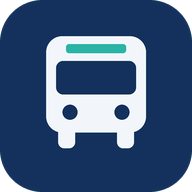
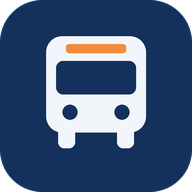
Add files via upload

Changed region(s): [[0.3438, 0.2188, 0.6562, 0.2812]]

diff --git a/css/app.css b/css/app.css
@@ -42,14 +42,15 @@
   --band-soft: #2a4a78;
   --shuttle: #1f4e8c;
   --shuttle-tint: #e3ecf8;
-  --iett: #0a766c;
-  --iett-tint: #dcf1ee;
-  --cancel: #b42a22;
+  --iett: #b5400b;
+  --iett-tint: #fbe7dc;
+  --cancel: #9f1d1d;
   --cancel-tint: #fbe6e4;
   --warn-ink: #6e4600;
   --warn-tint: #fdf1d3;
   --focus: #2a6fdb;
-  --star: #c48600;
+  --star: #13315c;
+  --ok: #1e7d3c;
   --sign: "Barlow Condensed", "Arial Narrow", "Roboto Condensed", system-ui, sans-serif;
   --text: system-ui, -apple-system, "Segoe UI", Roboto, "Helvetica Neue", Arial, sans-serif;
   color-scheme: light dark;
@@ -67,14 +68,15 @@
     --band-soft: #1d3554;
     --shuttle: #8ab6ef;
     --shuttle-tint: #1a2c45;
-    --iett: #5fcfc1;
-    --iett-tint: #12332f;
-    --cancel: #ff8a80;
+    --iett: #ffa15a;
+    --iett-tint: #3a2216;
+    --cancel: #ff6e7f;
     --cancel-tint: #3a1a18;
     --warn-ink: #ffd88a;
     --warn-tint: #352a10;
     --focus: #7fb0ff;
-    --star: #f2c14e;
+    --star: #e6edf5;
+    --ok: #6fd08f;
   }
 }
 
@@ -335,7 +337,7 @@ body[data-tab="info"] .dir, body[data-tab="debug"] .dir { display: none; }
 .dbg h3 { margin: 12px 0 6px; font-size: .95rem; }
 .dbg p { margin: 0 0 8px; }
 .dbg .muted, .muted { color: var(--muted); font-size: .88rem; }
-.dbg .ok, .ok { color: var(--iett); }
+.dbg .ok, .ok { color: var(--ok); }
 .dbg .bad, .bad { color: var(--cancel); }
 .dbg-form { display: grid; gap: 10px; margin: 10px 0; }
 .dbg-form label { display: grid; gap: 4px; font-size: .9rem; }
@@ -351,7 +353,7 @@ body[data-tab="info"] .dir, body[data-tab="debug"] .dir { display: none; }
 .presets .chip-btn span { font: 400 .78rem/1.3 var(--text); color: var(--muted); }
 .dbg-table { width: 100%; border-collapse: collapse; font-size: .85rem; margin: 6px 0 10px; }
 .dbg-table th, .dbg-table td { text-align: left; padding: 5px 6px; border-bottom: 1px solid var(--line); vertical-align: top; }
-.dbg-table tr.ok td:first-child { color: var(--iett); font-weight: 600; }
+.dbg-table tr.ok td:first-child { color: var(--ok); font-weight: 600; }
 .dbg-table tr.bad td:first-child { color: var(--cancel); font-weight: 600; }
 .dbg-table pre { white-space: pre-wrap; word-break: break-all; font-size: .75rem; max-height: 160px; overflow: auto; }
 .dbg-list { padding-left: 18px; margin: 0; }

diff --git a/sw.js b/sw.js
@@ -2,7 +2,7 @@
 // Uygulama kodunu değiştirdiğinde VERSION'ı artır; telefonlar bir sonraki açılışta yeni sürümü alır.
 // İBB ve okul sitesi istekleri önbelleğe alınmaz, doğrudan ağa gider.
 
-const VERSION = 'v1.1.0';
+const VERSION = 'v1.2.0';
 const CACHE = `kampus-${VERSION}`;
 
 const SHELL = [

diff --git a/js/config.js b/js/config.js
@@ -1,6 +1,6 @@
 // Uygulama ayarları. Değiştirdikten sonra sw.js içindeki VERSION'ı da artır.
 export const CONFIG = {
-  version: '1.1.0',
+  version: '1.2.0',
   line: 'KM18',
 
   ibb: {
